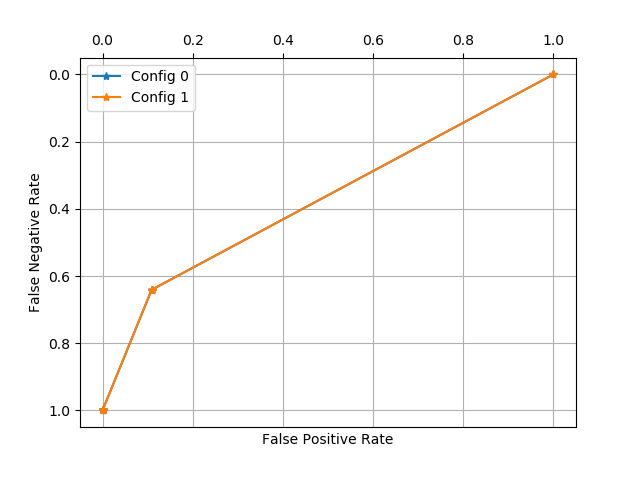
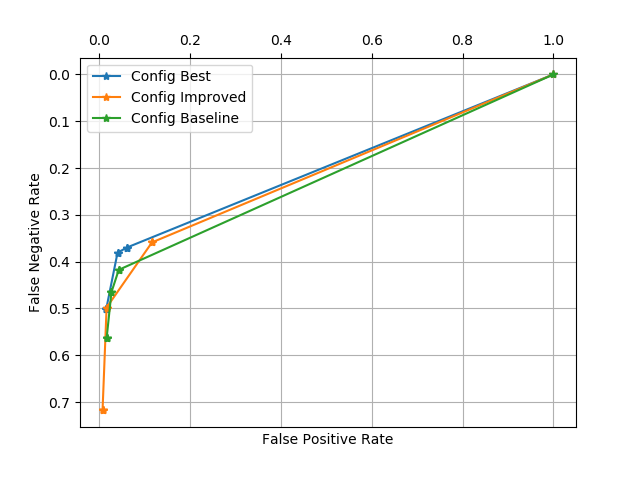
Now ROC can be generated with best configuration.

diff --git a/Assignment4/Code/model/DecisionTreeModel.py b/Assignment4/Code/model/DecisionTreeModel.py
@@ -19,6 +19,12 @@ class DecisionTreeModel(object):
             else:
                 predictions.append(predict_w_threshold(self.tree, example, threshold))
 
+        return predictions
+
+    def predict_probabilities(self, xTest):
+        predictions = []
+        for example in xTest:
+            predictions.append(predict_probability(self.tree, example))
 
         return predictions
 
@@ -370,3 +376,42 @@ def predict(node, example):
             return predict(node['right'], example)
         else:
             return node['right']
+
+
+def predict_probability(node, example):
+    """
+    Predict the value for an example given a tree(/node):
+         {'index': feature_index, 'gain': max(i_gails), 'groups': groups,
+                'num_label_1': groups[0][1].count(1),
+                'num_label_0': groups[0][1].count(0),
+          'threshold': 0.5 or midpoint of features}
+    :param node:
+    :param row:
+    :return:
+    """
+    if example[node['index']] >= node['threshold']:
+        if isinstance(node['left'], dict):
+            return predict_probability(node['left'], example)
+        else:
+            if (node['num_label_1'] + node['num_label_0']) == 0:
+                return node['right']
+            if node['num_label_1'] == 0:
+                return 0
+            if node['num_label_0'] == 0:
+                return 1
+            if node['left'] == 1:
+                return node['num_label_1'] / (node['num_label_1'] + node['num_label_0'])
+            return node['num_label_0'] / (node['num_label_1'] + node['num_label_0'])
+    else:
+        if isinstance(node['right'], dict):
+            return predict_probability(node['right'], example)
+        else:
+            if (node['num_label_1'] + node['num_label_0']) == 0:
+                return node['right']
+            if node['num_label_1'] == 0:
+                return 0
+            if node['num_label_0'] == 0:
+                return 1
+            if node['right'] == 1:
+                return node['num_label_1'] / (node['num_label_1'] + node['num_label_0'])
+            return node['num_label_0'] / (node['num_label_1'] + node['num_label_0'])

diff --git a/Assignment4/Code/utils/Assignment4Support.py b/Assignment4/Code/utils/Assignment4Support.py
@@ -416,7 +416,7 @@ def draw_weights(iter_cnts, weights,
     print("Saved/Updated image {}".format(img_fname))
 
 
-def draw_accuracies(accuracies, xlabel, ylabel, title, img_fname, legends, invert_yaxis=False):
+def draw_accuracies(accuracies, xlabel, ylabel, title, img_fname, legends, invert_yaxis=False, data_pt='-*'):
     """
     accuracies: a list of list of (iter_cnt, accurarcy)s
     legends: a tuple/list of legends for each graphs
@@ -431,7 +431,7 @@ def draw_accuracies(accuracies, xlabel, ylabel, title, img_fname, legends, inver
 
     for accus in accuracies:
         xs, ys = zip(*accus)
-        ax.plot(xs, ys, '-*')
+        ax.plot(xs, ys, data_pt)
 
     if legends:
         ax.legend(legends, loc='best')

diff --git a/Assignment4/Code/model/BestSpamModel.py b/Assignment4/Code/model/BestSpamModel.py
@@ -67,9 +67,11 @@ class BestSpamModel(object):
 
     def predict_probabilities(self, xTests):
         xTests_w_0 = [[1] + x for x in xTests]
+        #lg_pred = self.lg.predict(xTests_w_0)
         lg_pred = self.lg.predict_probabilities(xTests_w_0)
         #return lg_pred
         dt_pred = self.dt.predict(xTests)
+        #dt_pred = self.dt.predict_probabilities(xTests)
         rf_pred = self.rf.predict(xTests)
         predictions = []
         for l, d, r in zip(lg_pred, dt_pred, rf_pred):

diff --git a/Assignment4/Code/assignments/prob2_roc_curves.py b/Assignment4/Code/assignments/prob2_roc_curves.py
@@ -83,7 +83,8 @@ def compare_roc_curves_by_configs(configs,
                           'False Positive Rate', 'False Negative Rate', '',
                           img_fname,
                           legends=legends,
-                          invert_yaxis=True)
+                          invert_yaxis=True,
+                        data_pt='-+')
 
 
 if __name__ == '__main__':
